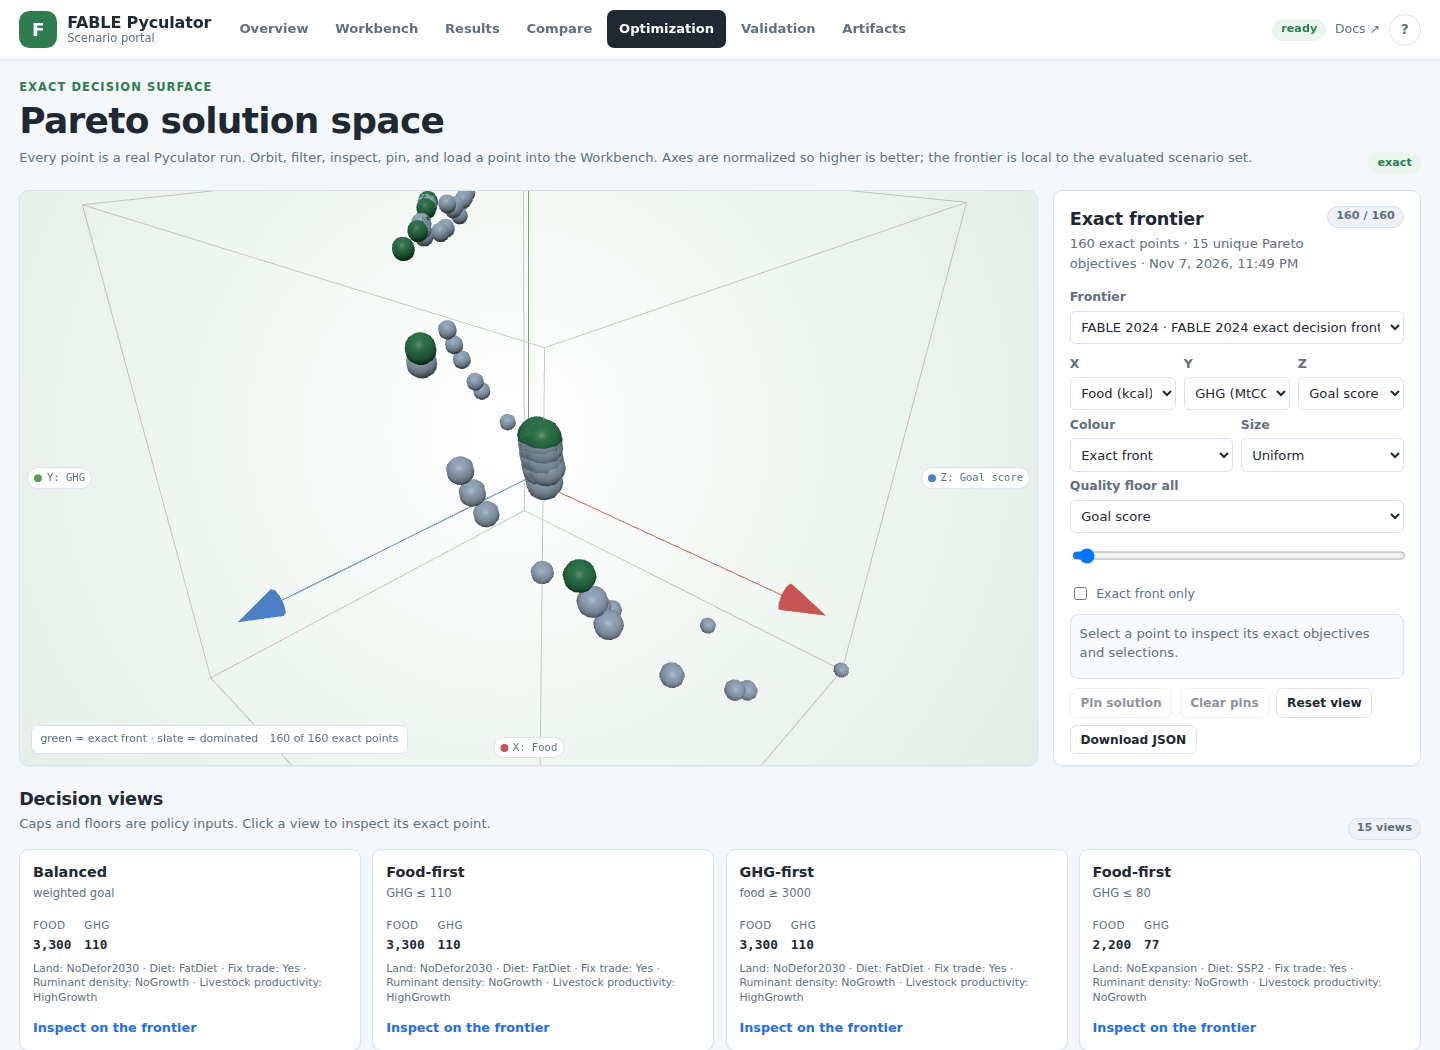
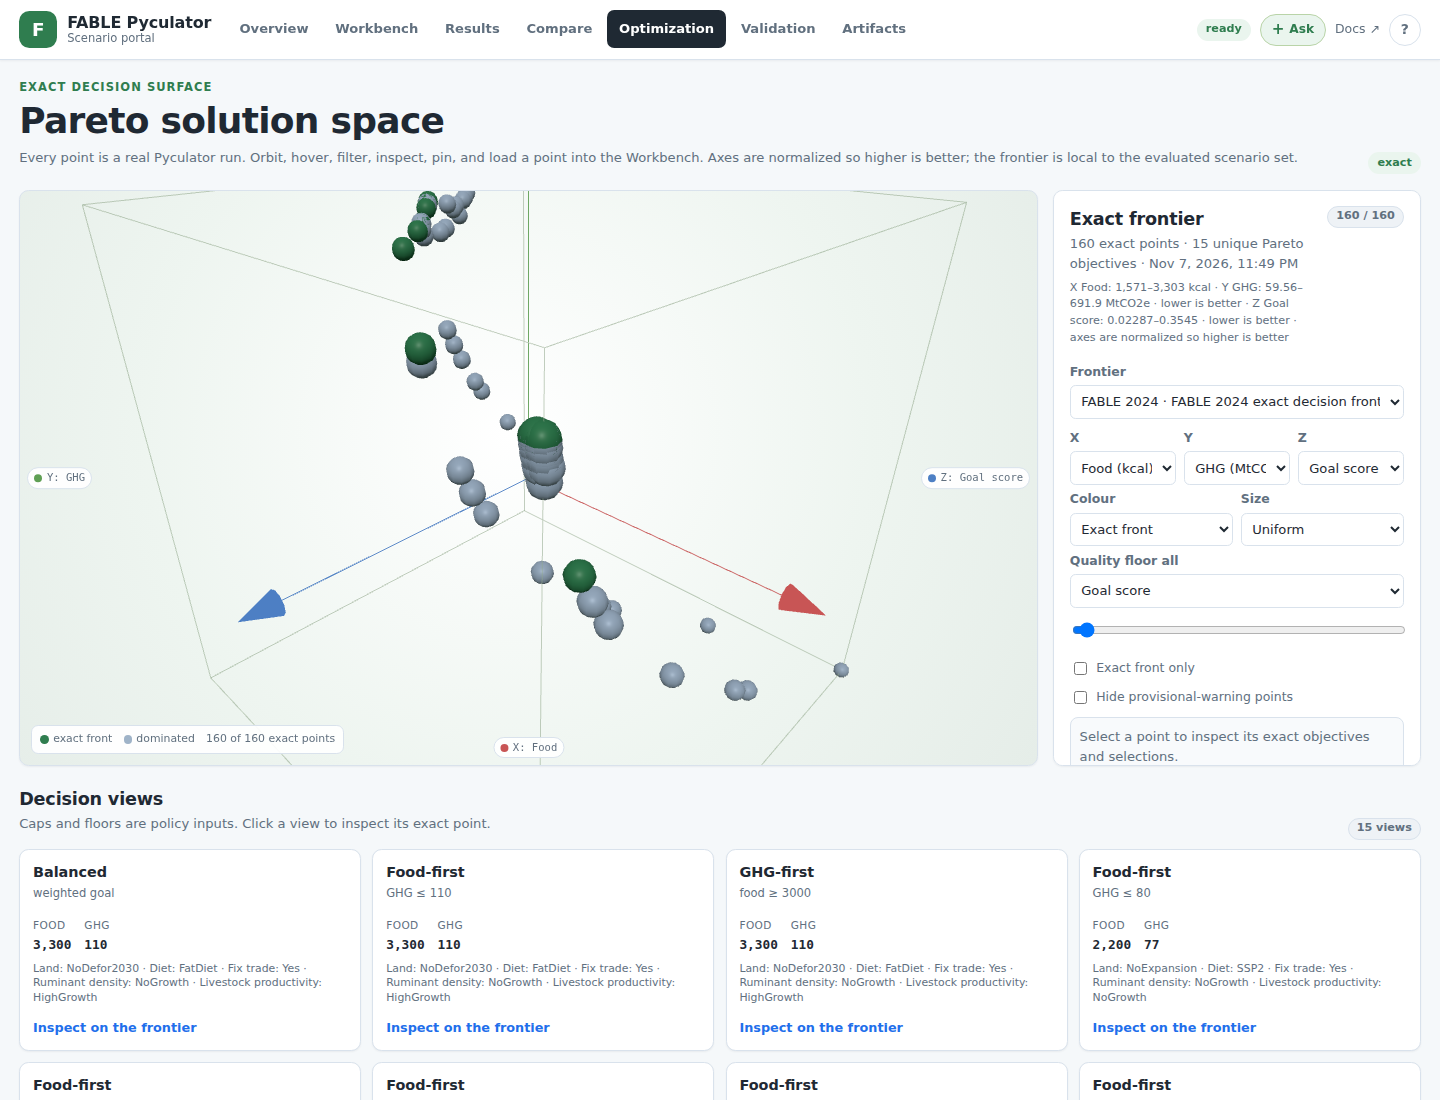
P42: Pareto Viewer Interaction Polish (#279)
* P42.1 polish Pareto viewer interactions

* P42.1 record PR #279

diff --git a/src/fable_pyculator/web/static/app.js b/src/fable_pyculator/web/static/app.js
@@ -368,8 +368,9 @@ function selectOptimizationPoint(pointId) {
   if (!point) return;
   renderOptimizationInfo(point);
   const stage = $("#page-optimization");
-  if (stage && !stage.hidden) {
-    $("#pareto-info").scrollIntoView({ block: "nearest", behavior: "smooth" });
+  const grid = document.querySelector(".optimization-grid");
+  if (stage && !stage.hidden && grid) {
+    grid.scrollIntoView({ block: "start", behavior: "smooth" });
   }
 }
 
@@ -401,8 +402,50 @@ function ensureOptimizationChart() {
   scene.add(box);
   const axes = buildOptimizationAxes();
   scene.add(axes);
+  const marker = new THREE.Mesh(
+    new THREE.SphereGeometry(0.075, 16, 12),
+    new THREE.MeshBasicMaterial({ color: 0xf6d47a, wireframe: true, transparent: true, opacity: 0.95 }),
+  );
+  marker.visible = false;
+  scene.add(marker);
   const raycaster = new THREE.Raycaster();
   const pointer = new THREE.Vector2();
+  const tooltip = $("#pareto-tooltip");
+  const hoverPoint = (event) => {
+    const mesh = state.optimization.mesh;
+    if (!mesh) return null;
+    const rect = canvas.getBoundingClientRect();
+    pointer.x = ((event.clientX - rect.left) / rect.width) * 2 - 1;
+    pointer.y = -((event.clientY - rect.top) / rect.height) * 2 + 1;
+    raycaster.setFromCamera(pointer, camera);
+    const hits = raycaster.intersectObject(mesh, false);
+    if (!hits.length) return null;
+    return { point: mesh.userData.points?.[hits[0].instanceId], event };
+  };
+  canvas.addEventListener("mousemove", (event) => {
+    const hit = hoverPoint(event);
+    if (!hit?.point || !tooltip) {
+      if (tooltip) tooltip.hidden = true;
+      canvas.style.cursor = "default";
+      return;
+    }
+    const point = hit.point;
+    const objectives = point.objectives || {};
+    tooltip.innerHTML = `
+      <strong>${escapeHtml(point.id)}</strong> · ${escapeHtml(point.origin || "exact")}<br>
+      Food ${formatNumber(objectives.food_total_kcal_feas, 4)} kcal<br>
+      GHG ${formatNumber(objectives.ghg_total_co2e, 4)} MtCO2e<br>
+      Goal ${formatNumber(point.goal, 4)}`;
+    tooltip.hidden = false;
+    const rect = canvas.getBoundingClientRect();
+    tooltip.style.left = `${Math.max(8, Math.min(rect.width - 180, event.clientX - rect.left + 14))}px`;
+    tooltip.style.top = `${Math.max(8, Math.min(rect.height - 82, event.clientY - rect.top + 14))}px`;
+    canvas.style.cursor = "pointer";
+  });
+  canvas.addEventListener("mouseleave", () => {
+    if (tooltip) tooltip.hidden = true;
+    canvas.style.cursor = "default";
+  });
   canvas.addEventListener("click", (event) => {
     const mesh = state.optimization.mesh;
     if (!mesh) return;
@@ -415,7 +458,7 @@ function ensureOptimizationChart() {
     const point = mesh.userData.points?.[hits[0].instanceId];
     if (point) renderOptimizationInfo(point);
   });
-  const chart = { renderer, scene, camera, controls, canvas, mesh: null, axes };
+  const chart = { renderer, scene, camera, controls, canvas, mesh: null, axes, marker };
   window.addEventListener("resize", () => {
     if (!chart.canvas.clientWidth) return;
     renderer.setSize(chart.canvas.clientWidth, Math.max(chart.canvas.clientHeight, 1), false);
@@ -471,6 +514,66 @@ function animateOptimization() {
   requestAnimationFrame(animateOptimization);
 }
 
+
+function updateOptimizationRangeNote(data, xKey, yKey, zKey) {
+  const note = $("#pareto-ranges");
+  if (!note) return;
+  const parts = [["X", xKey], ["Y", yKey], ["Z", zKey]].map(([axis, key]) => {
+    const dimension = optimizationDimension(data, key);
+    const bounds = data.ranges?.[key] || [];
+    const low = Number(bounds[0]);
+    const high = Number(bounds[1]);
+    const constant = Math.abs(high - low) <= 1e-6 * Math.max(1, Math.abs(low), Math.abs(high));
+    const unit = dimension.unit ? ` ${dimension.unit}` : "";
+    const direction = dimension.direction === "min" ? " · lower is better" : "";
+    return `${axis} ${dimension.label}: ${formatNumber(low, 4)}–${formatNumber(high, 4)}${unit}${constant ? " · constant" : direction}`;
+  });
+  note.textContent = `${parts.join("  ·  ")}  ·  axes are normalized so higher is better`;
+}
+
+function optimizationLegendHtml(data, colourMode, filtered) {
+  const swatch = (colour, label) => `<span><i style="background:${colour}"></i>${escapeHtml(label)}</span>`;
+  let entries = [];
+  if (colourMode === "front") {
+    entries = [swatch("#2f7d4f", "exact front"), swatch("#9fb3c8", "dominated")];
+  } else if (colourMode === "origin") {
+    entries = [...new Set(filtered.map((entry) => entry.point.origin || "Other"))].map((origin) =>
+      swatch(`hsl(${optimizationHue(origin)} 58% 48%)`, origin),
+    );
+  } else if ((data.controls || []).includes(colourMode)) {
+    const values = [...new Set(filtered.map((entry) => optimizationControlValue(entry.point, colourMode)))].sort();
+    entries = values.slice(0, 8).map((value) =>
+      swatch(`hsl(${optimizationHue(value)} 55% 50%)`, value),
+    );
+    if (values.length > 8) entries.push(`<span>+${values.length - 8} more</span>`);
+  } else {
+    const label = optimizationDimension(data, colourMode).label || colourMode;
+    entries = [swatch("hsl(209 68% 48%)", `${label}: better`), swatch("hsl(73 68% 48%)", "worse")];
+  }
+  return entries.join("");
+}
+
+function updateOptimizationSelectionMarker() {
+  const chart = state.optimization.chart;
+  const point = state.optimization.selected;
+  if (!chart?.marker) return;
+  if (!point) {
+    chart.marker.visible = false;
+    return;
+  }
+  const visible = state.optimization.filtered.some((item) => item.id === point.id);
+  if (!visible) {
+    chart.marker.visible = false;
+    return;
+  }
+  const data = state.optimization.data;
+  const x = optimizationPointQuality(data, point, $("#pareto-x").value);
+  const y = optimizationPointQuality(data, point, $("#pareto-y").value);
+  const z = optimizationPointQuality(data, point, $("#pareto-z").value);
+  chart.marker.position.set((x - 0.5) * 3.2, (y - 0.5) * 3.2, (z - 0.5) * 3.2);
+  chart.marker.visible = true;
+}
+
 function drawOptimization() {
   const chart = ensureOptimizationChart();
   const data = state.optimization.data;
@@ -483,6 +586,7 @@ function drawOptimization() {
   const floorKey = $("#pareto-floor-dimension").value;
   const threshold = Number($("#pareto-floor").value) / 100;
   const frontOnly = $("#pareto-front-only").checked;
+  const warningFree = $("#pareto-warning-free")?.checked;
   const filtered = data.points
     .map((point) => ({
       point,
@@ -492,7 +596,12 @@ function drawOptimization() {
       size: sizeKey === "uniform" ? 0.5 : optimizationPointQuality(data, point, sizeKey),
       floor: optimizationPointQuality(data, point, floorKey),
     }))
-    .filter((entry) => (!frontOnly || entry.point.front) && (threshold <= 0 || entry.floor >= threshold));
+    .filter(
+      (entry) =>
+        (!frontOnly || entry.point.front) &&
+        (!warningFree || !(entry.point.warnings || []).length) &&
+        (threshold <= 0 || entry.floor >= threshold),
+    );
   clearOptimizationMesh();
   state.optimization.filtered = filtered.map((entry) => entry.point);
   if (!filtered.length) {
@@ -537,15 +646,10 @@ function drawOptimization() {
   labels.goal = "Goal score";
   updateOptimizationAxes(chart, { x: labels[xKey] || xKey, y: labels[yKey] || yKey, z: labels[zKey] || zKey });
   $("#pareto-count").textContent = `${filtered.length} / ${data.points.length}`;
-  const colourLabel =
-    colourMode === "front"
-      ? "green = exact front · slate = dominated"
-      : colourMode === "origin"
-        ? `coloured by ${colourMode}`
-        : (data.controls || []).includes(colourMode)
-          ? `coloured by ${OPTIMIZATION_CONTROL_LABELS[colourMode] || colourMode}`
-          : `colour = ${labels[colourMode] || colourMode}`;
-  $("#pareto-legend").innerHTML = `<span>${escapeHtml(colourLabel)}</span><span>${filtered.length} of ${data.points.length} exact points</span>`;
+  updateOptimizationRangeNote(data, xKey, yKey, zKey);
+  $("#pareto-legend").innerHTML = optimizationLegendHtml(data, colourMode, filtered) +
+    `<span>${filtered.length} of ${data.points.length} exact points</span>`;
+  updateOptimizationSelectionMarker();
   chart.renderer.render(chart.scene, chart.camera);
 }
 
@@ -585,6 +689,7 @@ function renderOptimizationInfo(point) {
   state.optimization.selected = point;
   $("#pareto-load").disabled = false;
   $("#pareto-pin").disabled = false;
+  updateOptimizationSelectionMarker();
 }
 
 function pinOptimizationPoint() {
@@ -705,6 +810,7 @@ function bindOptimizationEvents() {
     drawOptimization();
   });
   $("#pareto-front-only").addEventListener("change", drawOptimization);
+  $("#pareto-warning-free").addEventListener("change", drawOptimization);
   $("#pareto-pin").addEventListener("click", pinOptimizationPoint);
   $("#pareto-clear-pins").addEventListener("click", clearOptimizationPins);
   $("#pareto-reset").addEventListener("click", resetOptimizationView);

diff --git a/src/fable_pyculator/web/static/index.html b/src/fable_pyculator/web/static/index.html
@@ -241,9 +241,9 @@
             <p class="eyebrow">Exact decision surface</p>
             <h1 id="optimization-title">Pareto solution space</h1>
             <p class="hint">
-              Every point is a real Pyculator run. Orbit, filter, inspect, pin, and load a point
-              into the Workbench. Axes are normalized so higher is better; the frontier is local to
-              the evaluated scenario set.
+              Every point is a real Pyculator run. Orbit, hover, filter, inspect, pin, and load a
+              point into the Workbench. Axes are normalized so higher is better; the frontier is
+              local to the evaluated scenario set.
             </p>
           </div>
           <span id="optimization-status" class="pill muted" role="status">loading</span>
@@ -258,6 +258,7 @@
               <span id="pareto-axis-z">Z: --</span>
             </div>
             <div id="pareto-legend" class="pareto-legend"></div>
+            <div id="pareto-tooltip" class="pareto-tooltip" hidden></div>
           </div>
 
           <aside class="pareto-panel panel" aria-label="Pareto controls">
@@ -265,6 +266,7 @@
               <div>
                 <h2>Exact frontier</h2>
                 <p id="pareto-meta" class="hint">Loading the tracked frontier…</p>
+                <p id="pareto-ranges" class="hint pareto-ranges"></p>
               </div>
               <span id="pareto-count" class="pill muted">--</span>
             </div>
@@ -292,6 +294,10 @@
             <label class="check-field">
               <input id="pareto-front-only" type="checkbox">
               <span>Exact front only</span>
+            </label>
+            <label class="check-field">
+              <input id="pareto-warning-free" type="checkbox">
+              <span>Hide provisional-warning points</span>
             </label>
 
             <div id="pareto-info" class="pareto-info" aria-live="polite">

diff --git a/src/fable_pyculator/web/static/styles.css b/src/fable_pyculator/web/static/styles.css
@@ -521,6 +521,7 @@ summary { cursor: pointer; color: var(--muted); font-size: 0.8rem; font-weight: 
 /* Optimization / Pareto solution space */
 .optimization-grid {
   display: grid; grid-template-columns: minmax(0, 1fr) 23rem; gap: 0.9rem; align-items: start;
+  scroll-margin-top: 5.5rem;
 }
 .pareto-stage {
   position: relative; min-height: 36rem; overflow: hidden;
@@ -594,3 +595,11 @@ summary { cursor: pointer; color: var(--muted); font-size: 0.8rem; font-weight: 
   .pareto-stage { min-height: 22rem; }
   .pareto-axis-labels span { font-size: 0.58rem; }
 }
+.pareto-tooltip {
+  position: absolute; z-index: 4; pointer-events: none;
+  max-width: 15rem; padding: 0.4rem 0.5rem; border: 1px solid rgba(255, 255, 255, 0.25);
+  border-radius: 0.42rem; background: rgba(31, 41, 51, 0.94); color: #fff;
+  box-shadow: 0 6px 20px rgba(31, 41, 51, 0.22); font-size: 0.7rem; line-height: 1.35;
+}
+.pareto-tooltip strong { color: #f6d47a; font-family: ui-monospace, SFMono-Regular, Menlo, monospace; }
+.pareto-ranges { margin: 0.15rem 0 0.45rem; font-size: 0.7rem; }

diff --git a/tests/web/test_optimization.py b/tests/web/test_optimization.py
@@ -63,10 +63,16 @@ def test_optimization_page_and_vendor_assets_are_served(tmp_path: Path) -> None:
     assert 'id="pareto-canvas"' in shell.text
     assert 'id="pareto-x"' in shell.text
     assert 'id="pareto-load"' in shell.text
+    assert 'id="pareto-tooltip"' in shell.text
+    assert 'id="pareto-ranges"' in shell.text
+    assert 'id="pareto-warning-free"' in shell.text
     assert script.status_code == 200
     assert "drawOptimization" in script.text
     assert "loadOptimizationPointInWorkbench" in script.text
     assert "optimization/frontiers" in script.text
+    assert "updateOptimizationSelectionMarker" in script.text
+    assert "optimizationLegendHtml" in script.text
+    assert "updateOptimizationRangeNote" in script.text
     assert three.status_code == 200
     assert "THREE" in three.text
     assert controls.status_code == 200

diff --git a/ROADMAP.md b/ROADMAP.md
@@ -111,6 +111,10 @@ Modelwright-generated Python models while preserving Modelwright as the generic 
   X/Y/Z/colour/size mapping, quality-floor and exact-front filters, pinning, comparison, and
   Workbench prefill. PR #276 merged as `1beceee`; parent #273 and children #274-#275 are closed.
   Post-merge Test and Docs Pages passed.
+- Phase 42 is implemented on `feature/p42-pareto-viewer-polish`: the Optimization page now has hover
+  values, selected-point highlighting, actual axis ranges, categorical legends, and a
+  hide-provisional-warning filter (91 of 160 points remain). Parent #277 and child #278 are mapped;
+  PR #279 and closeout remain.
 - Added a tracked `examples/fable_2024/` generated-model artifact for the 2024 FABLE Calculator
   (Canada) workbook (Modelwright `0.1.0a9` runtime-hardening line), with provenance and validation
   evidence in the example README.
@@ -3287,4 +3291,60 @@ Verification evidence:
 Closeout evidence:
 
 - PR #276 squash-merged as `1beceee`; parent #273 and children #274-#275 closed.
+
+## Phase 42: Pareto Viewer Interaction Polish
+
+GitHub parent issue: #277.
+
+Branch: `feature/p42-pareto-viewer-polish`.
+
+Status: pr-open.
+
+Pull request: #279.
+
+Goal: polish the exact Pareto viewer interactions without changing the exact frontier data.
+
+Tasks:
+
+- [x] P42.1 Add hover, selection marker, real axis ranges, and warning filtering. Child issue: #278.
+
+Scope:
+
+- Hover tooltip with exact objectives and point id.
+- Highlight the selected point in the 3D scene.
+- Show actual value ranges for the selected X/Y/Z dimensions.
+- Add categorical colour legends.
+- Add a hide-provisional-warning filter.
+
+Out of scope:
+
+- New optimization runs.
+- Surrogate or global-frontier claims.
+- Changing the tracked frontier artifact.
+
+Architecture notes:
+
+- The viewer remains read-only over exact points.
+- Provisional warnings are display metadata; hiding them is not approval.
+- Three.js interaction work stays bounded to the current 160-point scene.
+
+Implementation evidence:
+
+- Added a hover tooltip with exact food, GHG, and goal values; verified hovering `p080`.
+- Added a persistent wireframe marker for the selected point.
+- Added actual range text for the selected X/Y/Z dimensions.
+- Added a categorical colour legend for front membership, phase origin, and control values.
+- Added a hide-provisional-warning filter; 91 of 160 points remain visible.
+- Existing exact-front filter, pin/compare, and Workbench prefill remain intact.
+
+Verification evidence:
+
+- Full suite: 227 passed, 16 skipped.
+- Ruff passed.
+- Sphinx warning-as-error docs build and theme check passed.
+- Browser smoke passed with no page errors; warning filter and Workbench prefill verified.
+
+Closeout evidence:
+
+- Pending phase PR, CI, and review.
 

diff --git a/docs/guides/optimization-pilot.rst b/docs/guides/optimization-pilot.rst
@@ -526,8 +526,10 @@ Portal viewer
 The portal now has an **Optimization** page that reads
 `examples/optimization/fable_2024/frontier.json` through `/api/optimization/frontiers`. It maps food,
 GHG, land, and the weighted-goal score to X/Y/Z, supports colour and size mapping, quality-floor
-filtering, and an exact-front-only toggle. A point can be selected, pinned with up to two other
-points for comparison, and loaded into the Workbench as a scenario prefill.
+filtering, an exact-front-only toggle, and a hide-provisional-warning filter. Hover shows exact
+values, the selected point is highlighted, and the panel shows the actual range of each mapped
+dimension. A point can be selected, pinned with up to two other points for comparison, and loaded
+into the Workbench as a scenario prefill.
 
 This is the same interaction pattern as the urban-forest lab and WS4 Pareto explorer. The FABLE
 viewer is read-only over exact points: it does not run the optimizer, a surrogate, or a hidden model

diff --git a/docs/guides/web-portal.rst b/docs/guides/web-portal.rst
@@ -90,8 +90,9 @@ Compare
 
 Optimization
    Explore the tracked exact Pareto frontier for the optimization pilot. The page maps food, GHG,
-   land, and the weighted-goal score to X/Y/Z, supports colour, size, quality-floor filtering, and an
-   exact-front-only toggle, and lets you inspect, pin, compare, and load a frontier point into the
+   land, and the weighted-goal score to X/Y/Z, supports colour, size, quality-floor filtering, an
+   exact-front-only toggle, a provisional-warning filter, hover values, selected-point highlighting,
+   and actual axis ranges. It also lets you inspect, pin, compare, and load a frontier point into the
    Workbench. The viewer reads ``examples/optimization/fable_2024/frontier.json`` through
    ``/api/optimization/frontiers``; it never runs an optimizer or a surrogate in the browser.
 

diff --git a/CHANGE_LOG.md b/CHANGE_LOG.md
@@ -85,6 +85,8 @@ This file records completed project work in chronological order.
   quality-floor and exact-front filters, point inspection, pinning/comparison, and Workbench prefill.
   Browser smoke and release artifact checks passed.
   PR #276 merged as `1beceee`; post-merge Test and Docs Pages passed.
+- Polished the Optimization page with hover values, selected-point highlighting, actual axis ranges,
+  categorical legends, and a hide-provisional-warning filter (91 of 160 points remain).
 - Added `scripts/check_deployed_portal.py` and Cloudflare Access deployment documentation, then
   merged them in PR #232 (`bd7cd0c`). The checker detects the live
   `fable-pyculator.01101.dev` Access redirect; the version check and `0.1.0a5` upgrade remain
